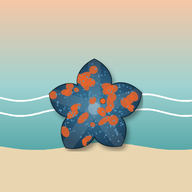
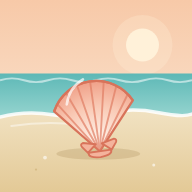
アイコンを渚と貝殻に変更
Claude-Session: https://claude.ai/code/session_01WZXrLiRnX1V1monboHcR9s

diff --git a/sw.js b/sw.js
@@ -1,6 +1,6 @@
 // オフラインでも開けるように、アプリのファイルを端末に保存しておく
 // 中身を更新したら VERSION の数字を1つ上げてください
-const VERSION = 'nagisa-v11';
+const VERSION = 'nagisa-v12';
 const FILES = ['./', './index.html', './manifest.webmanifest', './icon-192.png', './icon-512.png'];  // 図鑑の写真やイラストは、一度見たものから順に保存されます
 
 self.addEventListener('install', e => {
